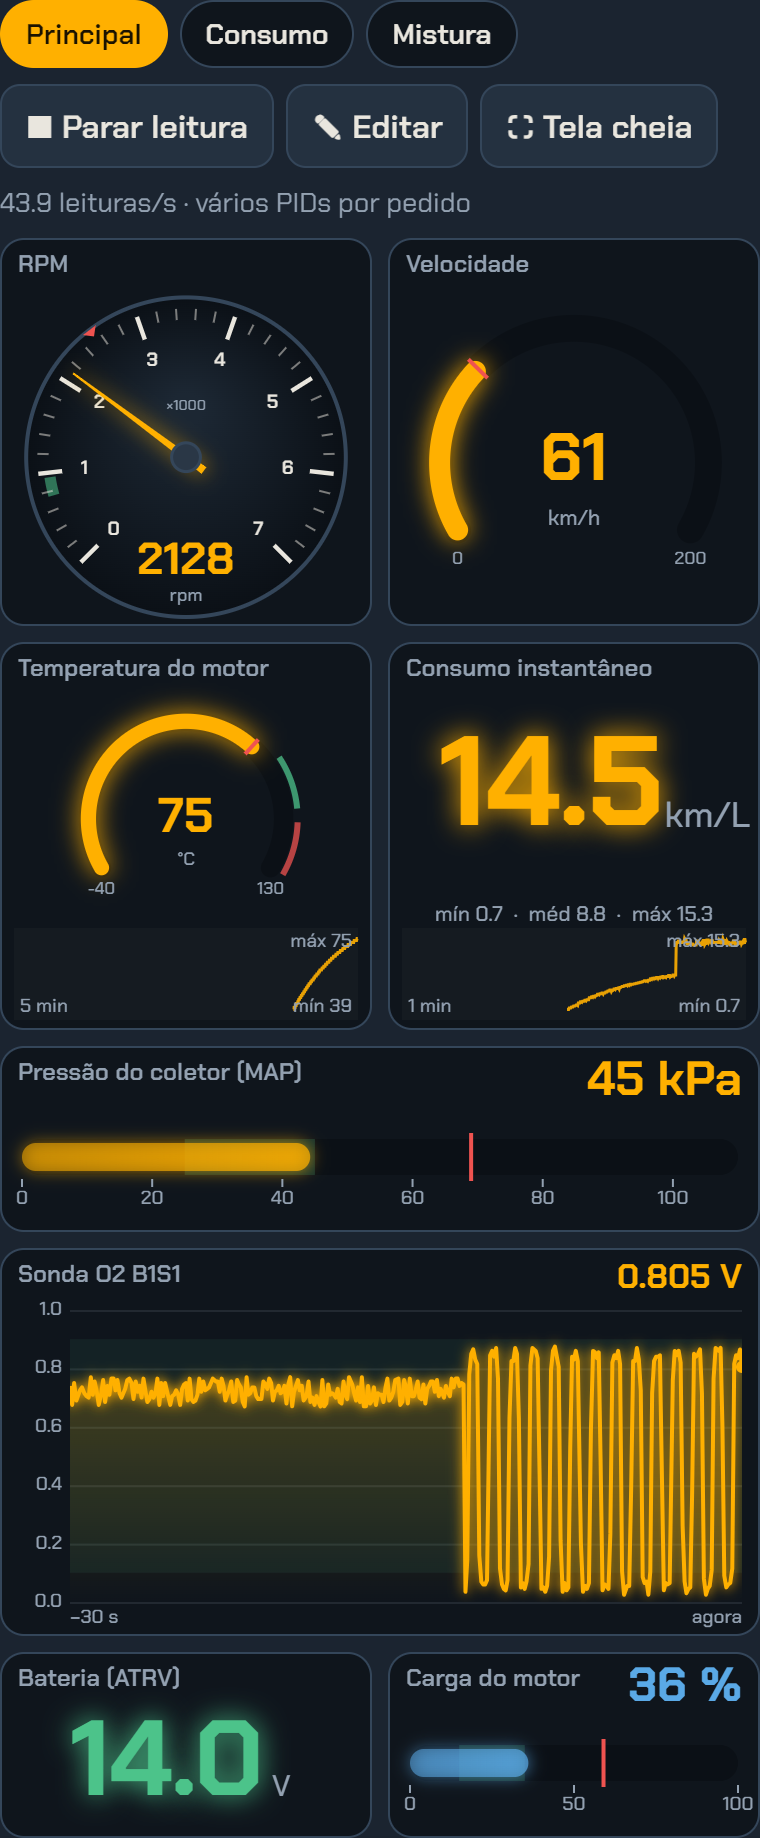
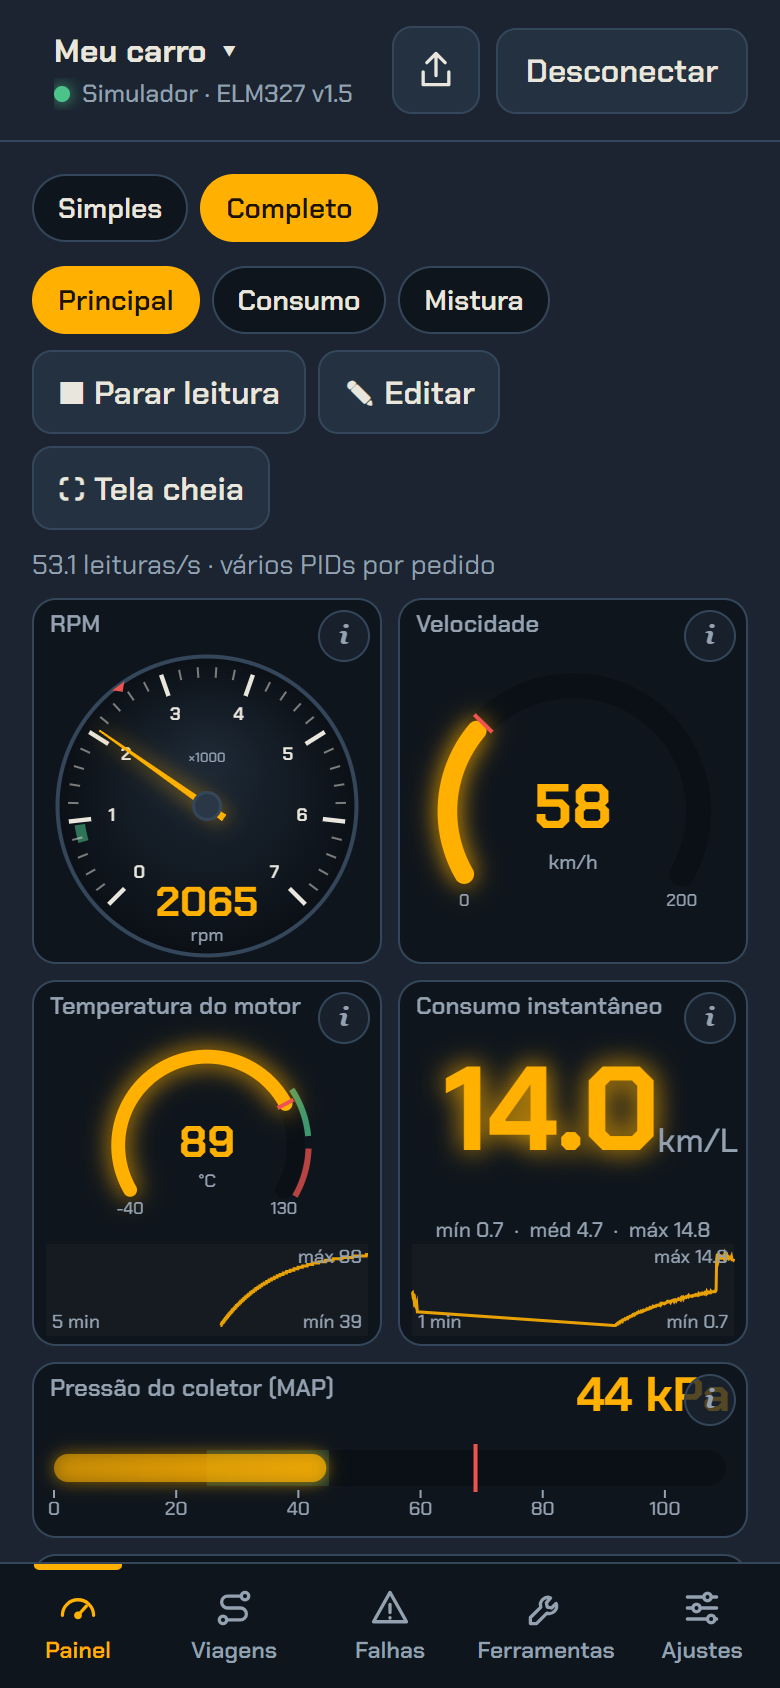
New screenshots for the new layout, TikTok image, fix double period in simple cards
- README: simple mode, full dashboard, lambda probes and used-car
  inspection, captured from the demo with a warm engine (old config.png
  removed)
- docs/tiktok.png: 1080x1920 ad image, text kept out of the areas the
  TikTok buttons and caption cover
- Simple mode cards: messages that already end in a period no longer
  get a second one

diff --git a/js/health.js b/js/health.js
@@ -131,7 +131,7 @@ function simpleRender(){
     const x = explain(k), [cls, txt] = LVL[x.lvl];
     return '<button class="scard" data-k="' + k + '" aria-label="' + label + ': o que significa"><span class="sl">' + label + '</span>' +
       '<b>' + esc(String(x.v)) + '<small> ' + esc(x.unit || '') + '</small></b><span class="lvl lvl-' + cls + '">' + txt + '</span>' +
-      '<span class="sm">' + (x.lvl === 'na' ? (link ? 'Aguardando leitura' : '') : x.msg.replace(/<[^>]+>/g, '').split('. ')[0] + '.') + '</span><i class="sinfo" aria-hidden="true">i</i></button>';
+      '<span class="sm">' + (x.lvl === 'na' ? (link ? 'Aguardando leitura' : '') : x.msg.replace(/<[^>]+>/g, '').split('. ')[0].replace(/\.$/, '') + '.') + '</span><i class="sinfo" aria-hidden="true">i</i></button>';
   }).join('');
 }
 $('sCards').onclick = e => { const b = e.target.closest('[data-k]'); if (b) openInfo(b.dataset.k); };

diff --git a/README.md b/README.md
@@ -4,9 +4,9 @@ Scanner OBD-II que roda no navegador (Chrome/Edge) e conversa com adaptadores EL
 
 **Abrir o app:** https://paulpessoa.github.io/elm327-scanner/ (sem adaptador, use o **Modo demonstração**)
 
-| Painel | Sondas lambda | Configurar mostrador |
-|---|---|---|
-| ![Painel com ponteiro de RPM, velocidade, temperatura, consumo e gráfico da sonda](docs/painel.png) | ![Osciloscópio das sondas pré e pós-catalisador com métricas](docs/sondas.png) | ![Diálogo de configuração de um mostrador](docs/config.png) |
+| Modo simples | Painel completo | Sondas lambda | Vistoria de usado |
+|---|---|---|---|
+| ![Modo simples: "Tudo certo" e cartões de água, bateria, consumo agora e média da viagem](docs/simples.png) | ![Painel com ponteiro de RPM, velocidade, temperatura do motor e consumo instantâneo](docs/painel.png) | ![Osciloscópio das sondas pré e pós-catalisador com métricas](docs/sondas.png) | ![Laudo da vistoria: nenhum sinal de alerta, sem códigos de falha, códigos não apagados recentemente](docs/vistoria.png) |
 
 <sub>Imagens do modo demonstração (motor simulado).</sub>
 
